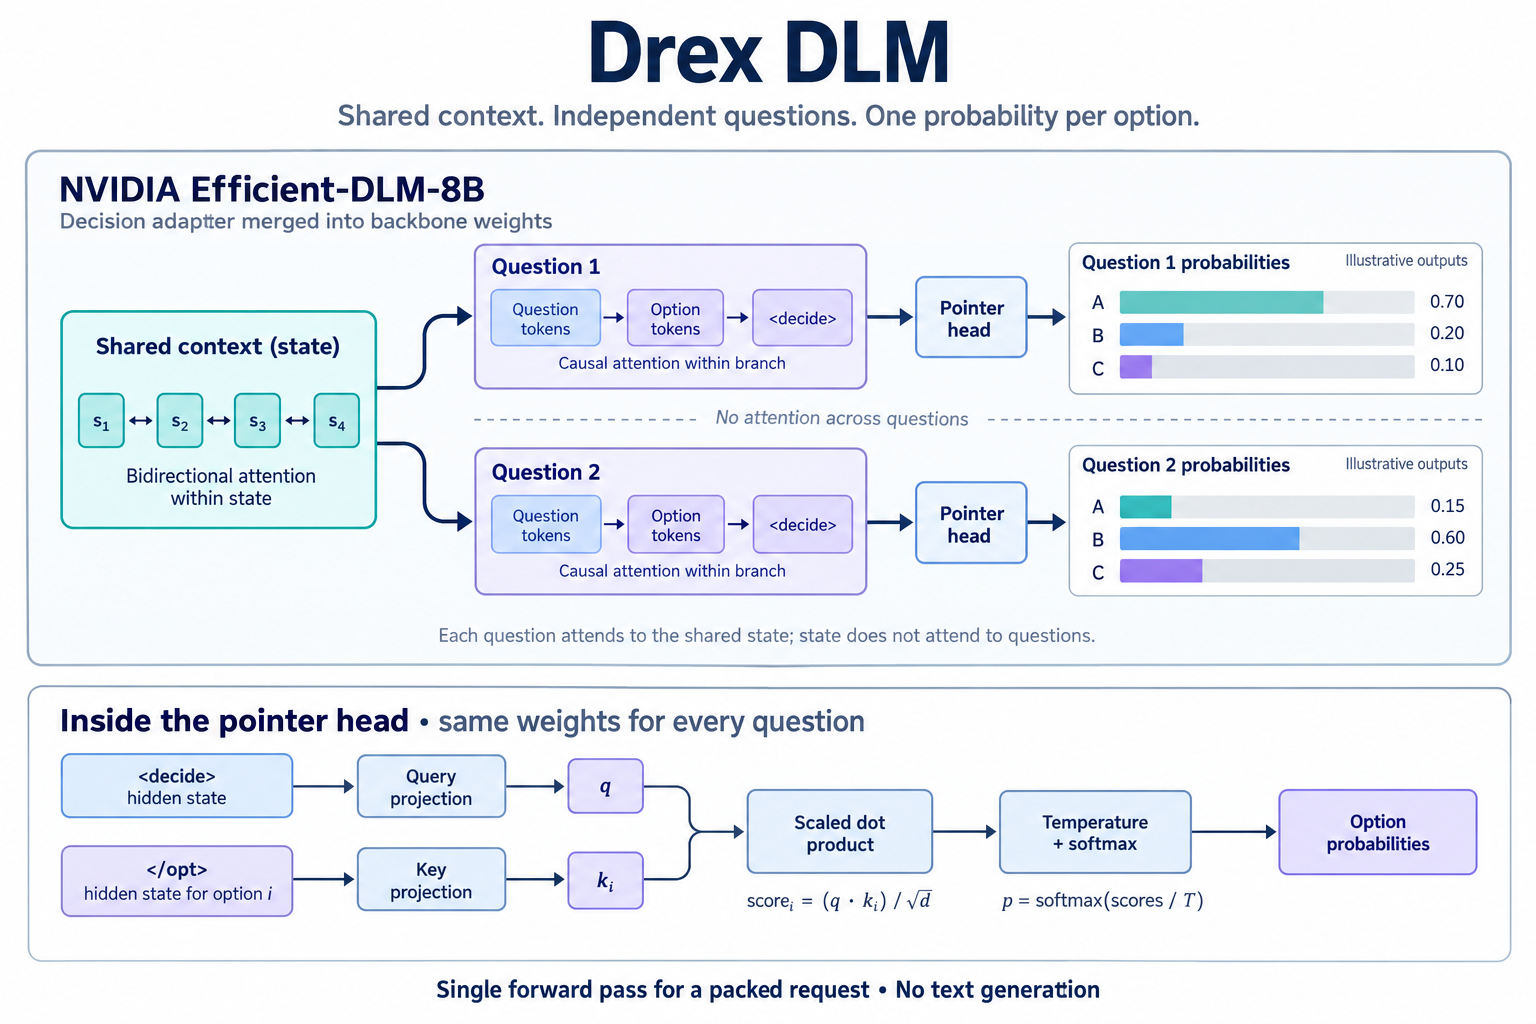
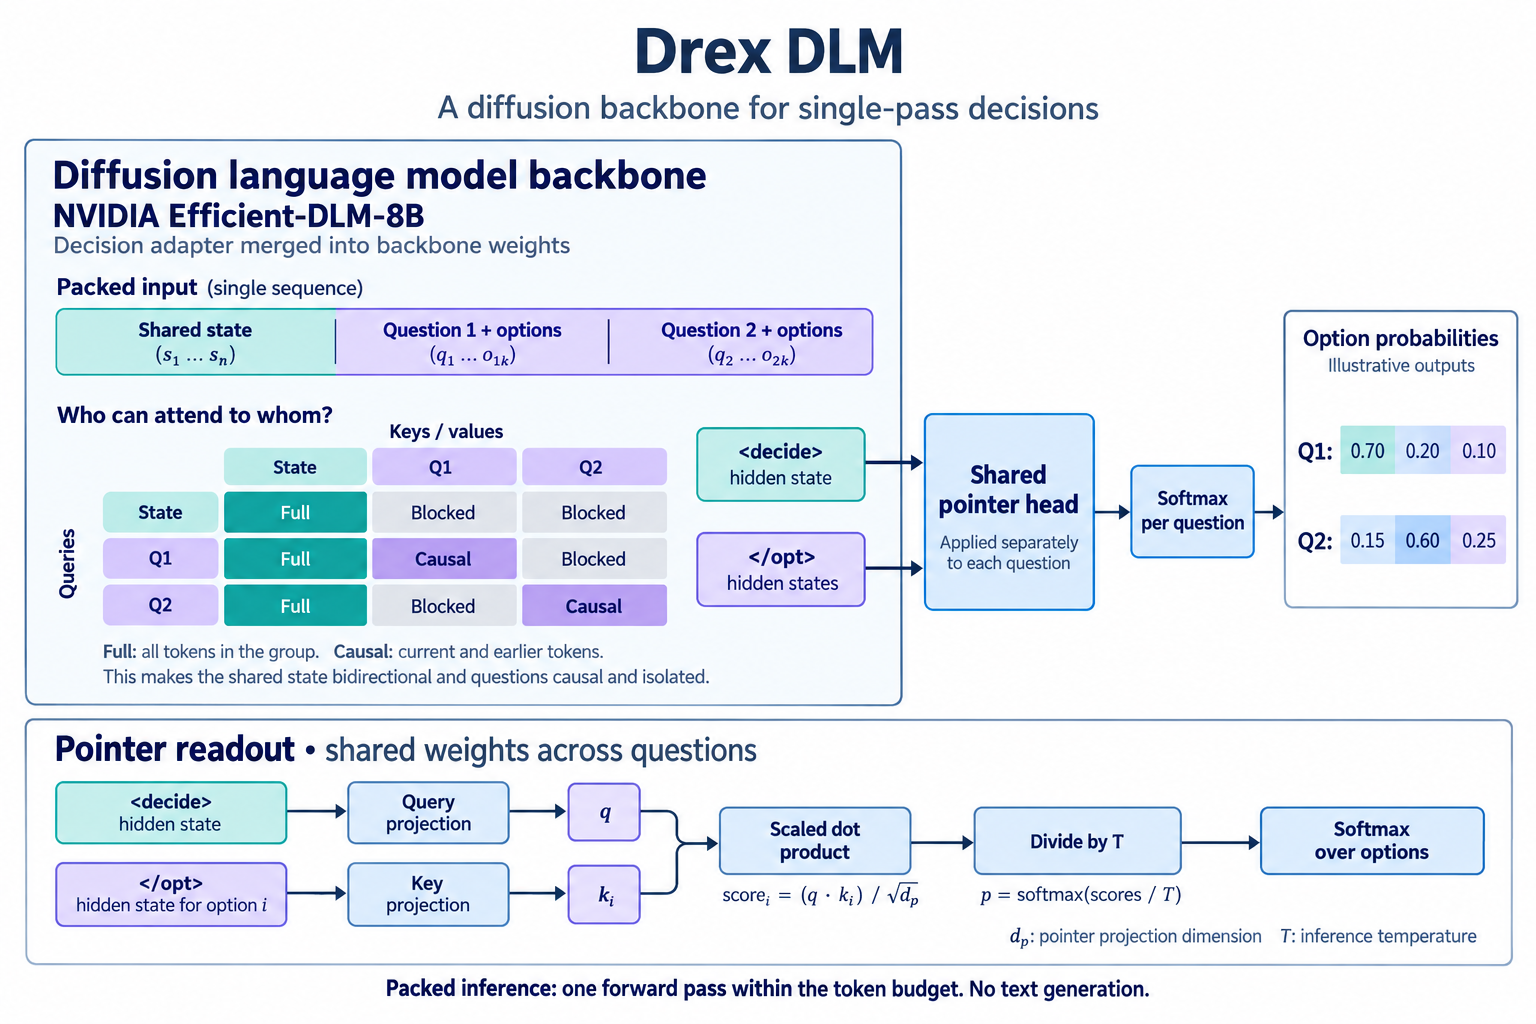
docs: clarify diffusion backbone and pointer architecture

Changed region(s): [[0.0, 0.0, 1.0, 1.0]]

diff --git a/README.md b/README.md
@@ -12,9 +12,13 @@ pipeline_tag: text-classification
 
 We introduce Drex DLM from [Nace.AI](https://www.nace.ai/), a decision model that answers typed questions about a given context. Pass that context as `state`, provide one or more named questions, and get a probability for every option. One forward pass of an 8B diffusion language model plus a pointer head produces that distribution.
 
-The backbone is [NVIDIA Efficient-DLM-8B](https://huggingface.co/nvidia/Efficient-DLM-8B), with a decision adapter merged into the weights. The block tensor names match Qwen3. Attention is the diffusion encoder: the document is bidirectional, and each question is its own causal branch, so one question's options stay invisible to the next question. The pointer head reads the hidden state at the decision marker and at each option marker, then turns those two vectors into a score.
+The backbone is [NVIDIA Efficient-DLM-8B](https://huggingface.co/nvidia/Efficient-DLM-8B), a diffusion language model with a decision adapter merged into its weights. The block tensor names match Qwen3. The shared context (`state`) uses bidirectional attention. Each question branch attends to that context and uses causal attention within the branch; state tokens cannot attend to questions, and question branches cannot attend to one another.
 
-![Drex DLM architecture: bidirectional shared context feeds isolated causal question branches. A shared pointer head projects decision and option hidden states into queries and keys, then converts scaled dot-product scores into option probabilities.](assets/drex-dlm-architecture.png)
+A shared pointer head projects the final-layer hidden state at the decision marker into a query and the final-layer hidden state at each option-ending marker into a key. Scaled dot products, temperature scaling, and a softmax over each question's options produce the probabilities.
+
+![Drex DLM architecture: an Efficient-DLM-8B diffusion backbone uses full attention within shared state, causal attention within each question branch, and no attention between questions. Decision and option-ending hidden states feed a separate shared pointer head, followed by a softmax over each question's options.](assets/drex-dlm-architecture.png)
+
+The diagram uses `<decide>` and `</opt>` as readable aliases for the decision and option-ending markers. Packed requests within the token budget use one forward pass; larger requests are split across question rows.
 
 Weights: [nace-ai/drex-dlm](https://huggingface.co/nace-ai/drex-dlm)
 
